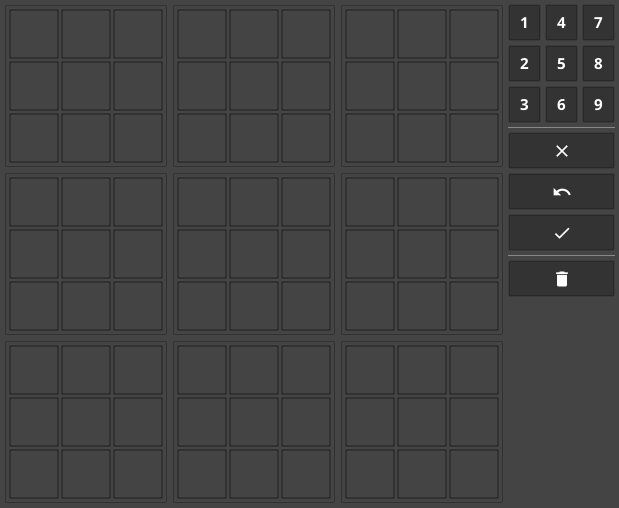
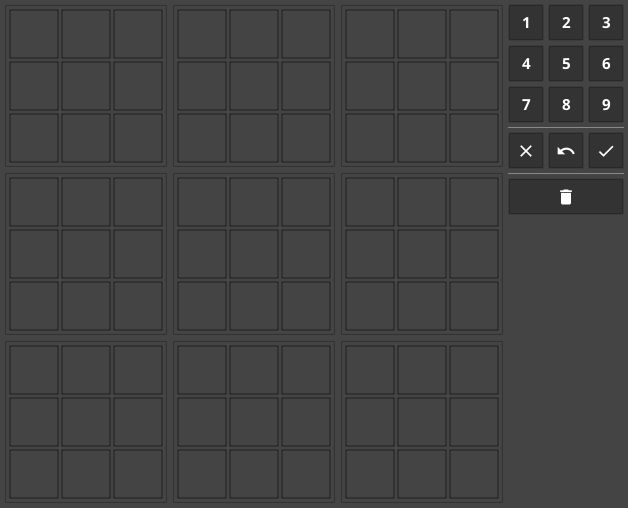
fix: orientation of cells in test (move to Grid)

diff --git a/cmd/main.go b/cmd/main.go
@@ -55,12 +55,12 @@ func uiInit(b *board, w fyne.Window) {
 
 	controlArea := container.NewVBox(
 		fyne.NewContainerWithLayout(
-			layout.NewAdaptiveGridLayout(b.boxWidth),
+			layout.NewGridLayout(b.boxWidth),
 			controls...,
 		),
 		widget.NewSeparator(),
 		fyne.NewContainerWithLayout(
-			layout.NewAdaptiveGridLayout(3),
+			layout.NewGridLayout(3),
 			widget.NewButtonWithIcon("", theme.CancelIcon(), clearSelected(b)),
 			widget.NewButtonWithIcon("", theme.ContentUndoIcon(), b.Undo),
 			widget.NewButtonWithIcon("", theme.ConfirmIcon(), func() {

diff --git a/cmd/board.go b/cmd/board.go
@@ -289,7 +289,7 @@ func (b *board) init() {
 			box.Refresh()
 		} else {
 			boxObjects[i] = widget.NewCard("", "", fyne.NewContainerWithLayout(
-				layout.NewAdaptiveGridLayout(b.boxWidth),
+				layout.NewGridLayout(b.boxWidth),
 				cells...,
 			))
 		}
@@ -301,7 +301,7 @@ func (b *board) init() {
 		b.Container.Refresh()
 	} else {
 		b.Container = fyne.NewContainerWithLayout(
-			layout.NewAdaptiveGridLayout(b.boxesWide),
+			layout.NewGridLayout(b.boxesWide),
 			boxObjects...,
 		)
 	}

diff --git a/cmd/cell.go b/cmd/cell.go
@@ -31,7 +31,7 @@ type cell struct {
 func newCell(id int) *cell {
 	// TODO: implement corner numbers
 	// c := fyne.NewContainerWithLayout(
-	// layout.NewAdaptiveGridLayout(3),
+	// layout.NewGridLayout(3),
 	// )
 
 	c := &cell{ID: id}
